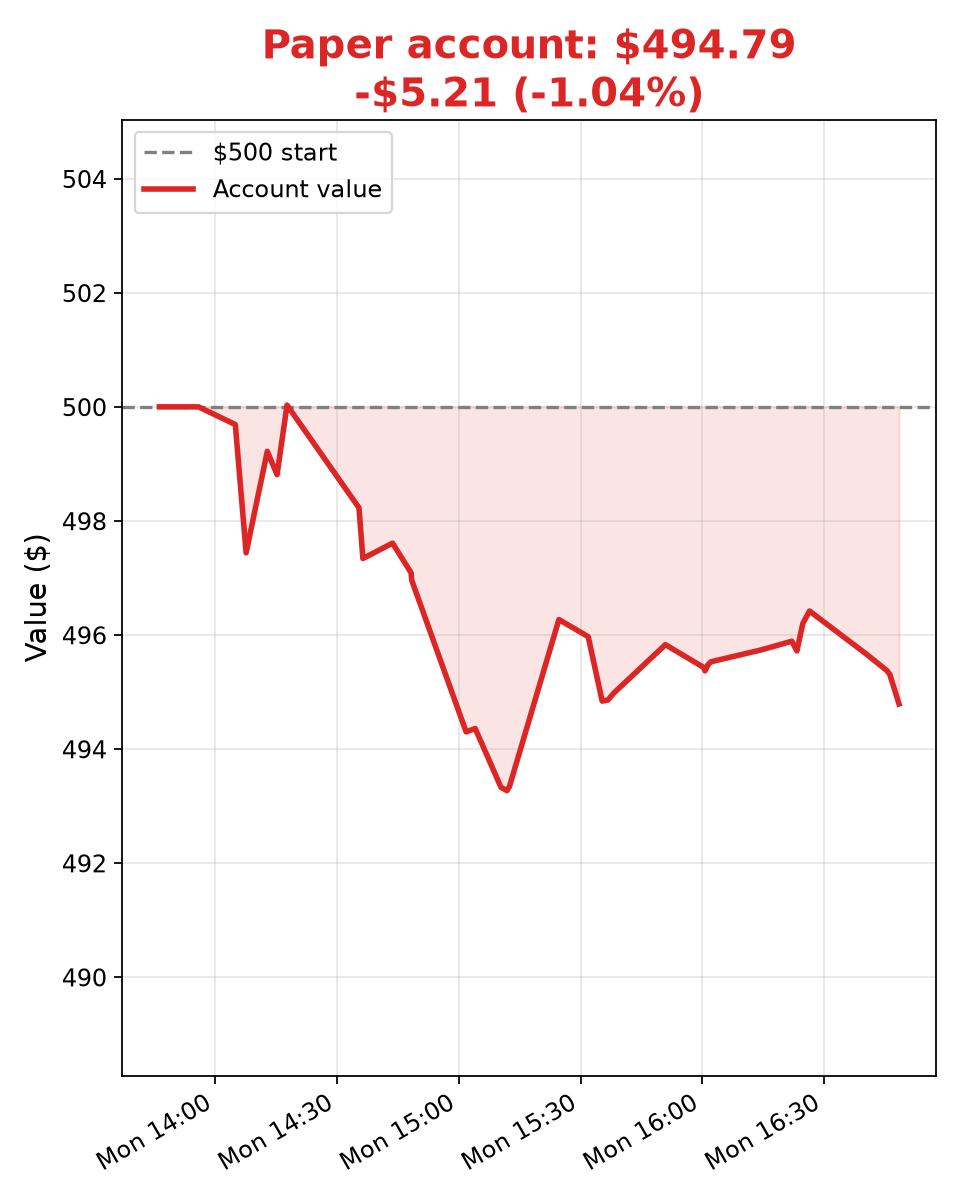
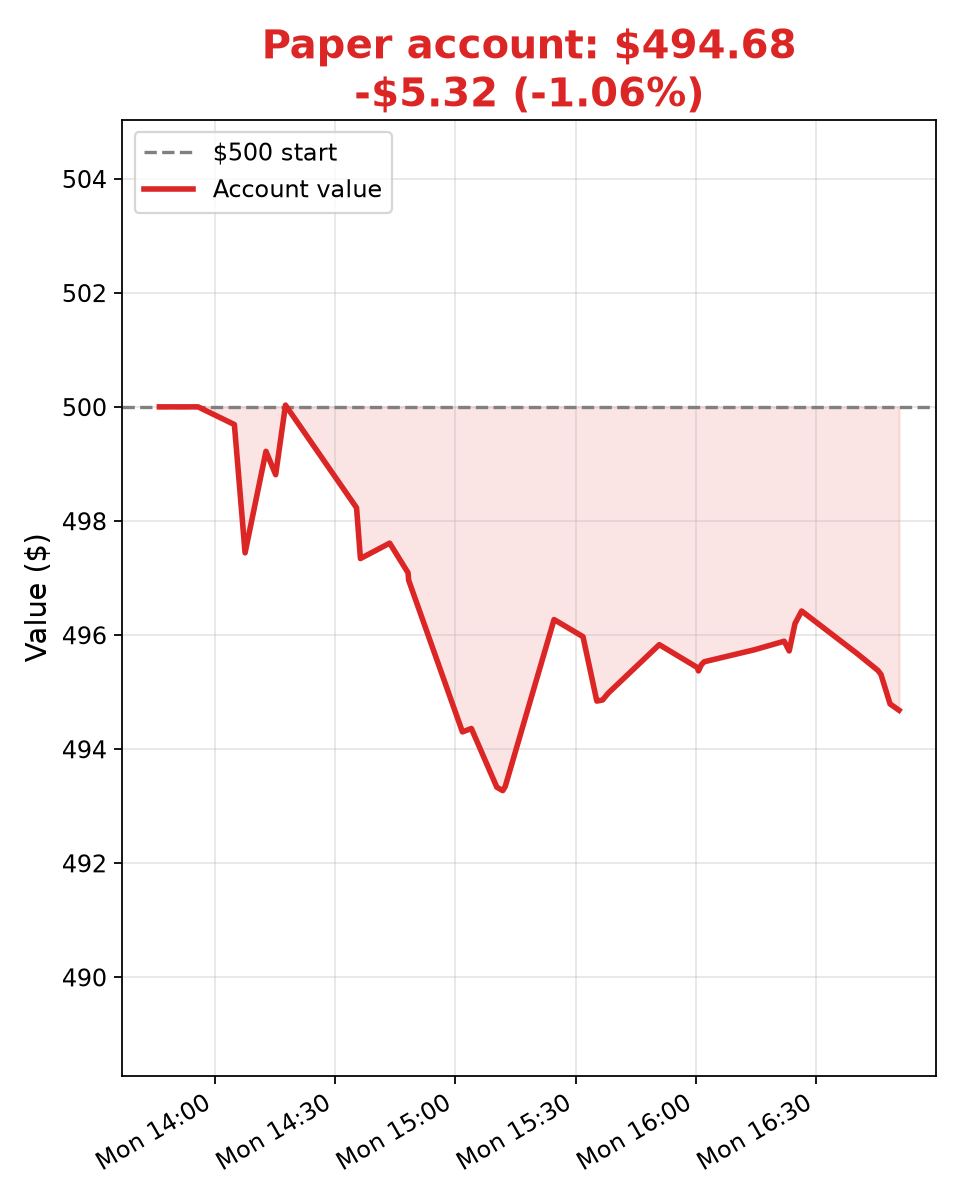
Update 2026-10-12T16:50:52Z

diff --git a/ledger.md b/ledger.md
@@ -62,3 +62,4 @@
 
 - 2026-10-12T16:46:12Z — total $495.31, cash $98.62 (Bot1 mark, no trade; FRO 58.90, DHT 25.95, ASTS 53.42 marked; no stops/targets hit)
 - 2026-10-12T16:48:29Z — total $494.79, cash $98.62 (Bot2 mark, no trade; FRO 58.75, DHT 25.885, ASTS 53.54 marked; no stops/targets hit)
+- 2026-10-12T16:50:43Z — total $494.68, cash $98.62 (Jr mark, no trade; FRO 58.725, DHT 25.88, ASTS 53.53 marked; no stops/targets hit)
